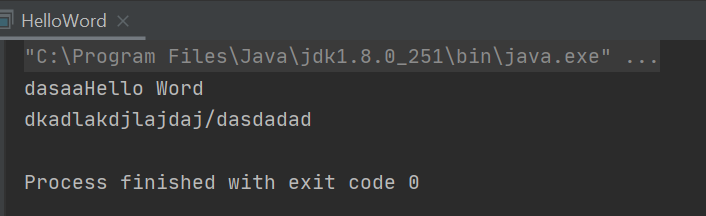
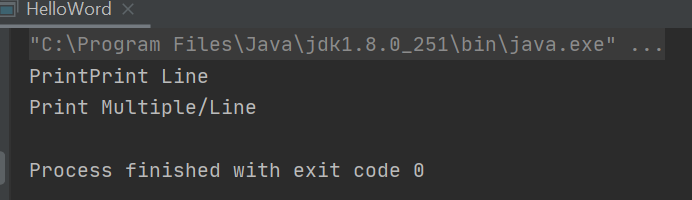
Update Image & .java File

diff --git a/src/HelloWord.java b/src/HelloWord.java
@@ -3,9 +3,9 @@ CREATED BY: YC Lim
  */
 public class HelloWord {
     public static void main(String[] args) {
-        System.out.print("dasaa"); // Print in the same line
-        System.out.println("Hello Word"); // print text & a new line
-        System.out.println ("dkadlakdjlajdaj/" +
-                "dasdadad"); // Print multiple line
+        System.out.print("Print"); // Print in the same line
+        System.out.println("Print Line"); // print text & a new line
+        System.out.println ("Print Multiple/" +
+                "Line"); // Print multiple line
     }
 }

diff --git a/README.md b/README.md
@@ -1,2 +1,2 @@
 # README
-1. ![HELLOWORLD.java](https://github.com/yclim95/java-basic-example/blob/master/img/helloworld.PNG)
+1. HelloWord.java ![HELLOWORLD.java](https://github.com/yclim95/java-basic-example/blob/master/img/helloworld.PNG)
